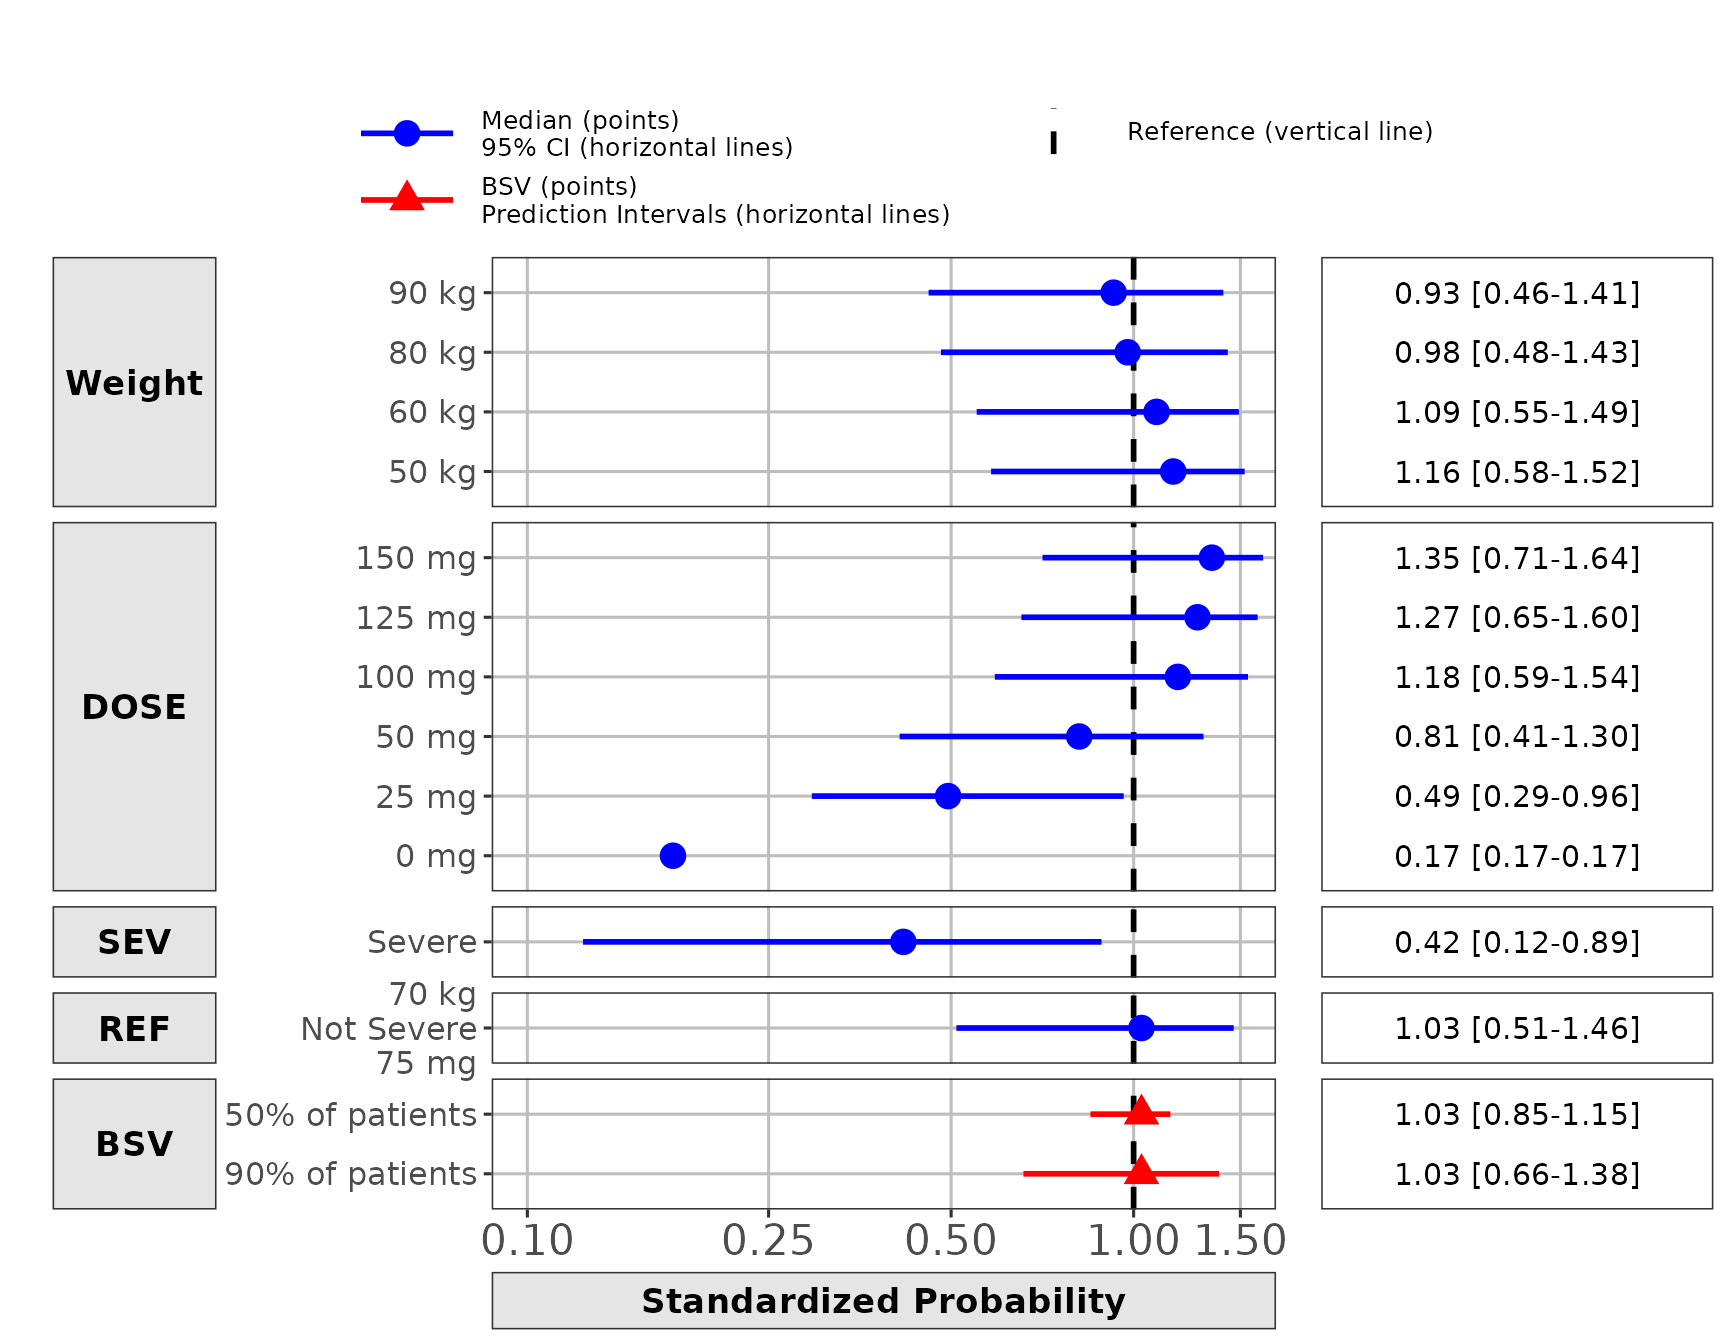
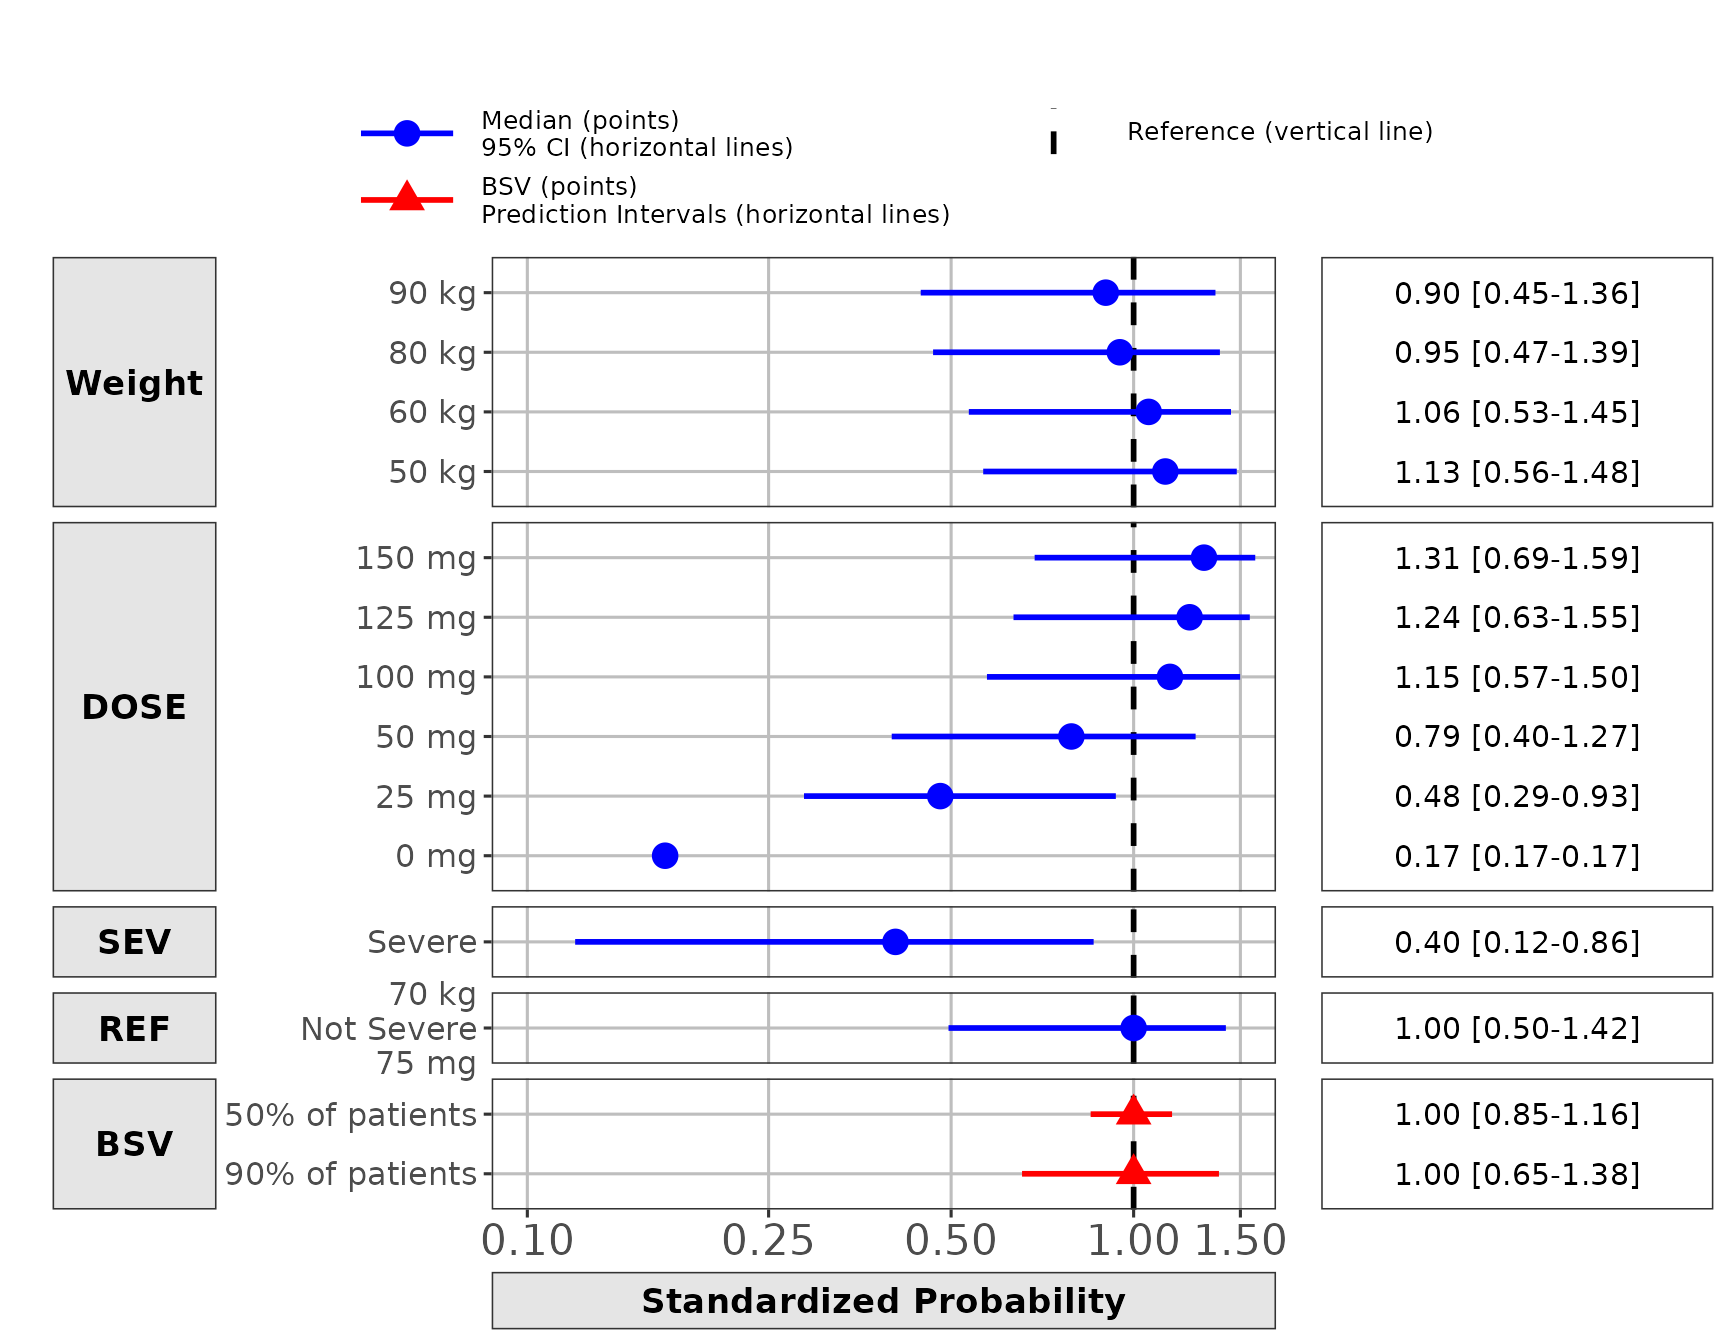
Deploying to gh-pages from @ smouksassi/coveffectsplot@e56d0bf5281c3a1fa69e40cc6d027e754118b908 🚀

diff --git a/articles/Exposure_Response_Example.html b/articles/Exposure_Response_Example.html
@@ -178,9 +178,7 @@ $$</span> The equation of the log(odds) becomes: <span class="math display">$$lo
 <span>  <span class="fu">data_set</span><span class="op">(</span><span class="va">simdata</span><span class="op">)</span> <span class="op"><a href="https://magrittr.tidyverse.org/reference/pipe.html" class="external-link">%&gt;%</a></span></span>
 <span>  <span class="fu">carry.out</span><span class="op">(</span><span class="va">WT</span>, <span class="va">DOSE</span>, <span class="va">SEV</span><span class="op">)</span> <span class="op"><a href="https://magrittr.tidyverse.org/reference/pipe.html" class="external-link">%&gt;%</a></span></span>
 <span>  <span class="fu">mrgsim</span><span class="op">(</span><span class="op">)</span><span class="op"><a href="https://magrittr.tidyverse.org/reference/pipe.html" class="external-link">%&gt;%</a></span></span>
-<span>  <span class="va">as.data.frame</span></span>
-<span></span>
-<span><span class="co">#simout$DV = ifelse(runif(n=nrow(simout),min=0,max=1)&lt; simout$P1,1 , 0)</span></span></code></pre></div>
+<span>  <span class="va">as.data.frame</span></span></code></pre></div>
 </div>
 <div class="section level3">
 <h3 id="visualizing-probability-of-cure">Visualizing Probability of Cure<a class="anchor" aria-label="anchor" href="#visualizing-probability-of-cure"></a>
@@ -221,8 +219,6 @@ Weight of 70 kg and disease severity of “Not Severe”.</p>
 <span>            n1<span class="op">=</span> <span class="fu"><a href="https://rdrr.io/r/base/length.html" class="external-link">length</a></span><span class="op">(</span><span class="va">DV</span><span class="op">[</span><span class="va">DV</span><span class="op">==</span><span class="fl">1</span><span class="op">]</span><span class="op">)</span>,</span>
 <span>            medAUC<span class="op">=</span> <span class="fu"><a href="https://rdrr.io/r/stats/median.html" class="external-link">median</a></span><span class="op">(</span><span class="va">AUC</span><span class="op">)</span><span class="op">)</span></span>
 <span></span>
-<span></span>
-<span></span>
 <span><span class="va">percentineachbreakcategory</span> <span class="op">&lt;-</span> <span class="va">simout</span> <span class="op"><a href="https://magrittr.tidyverse.org/reference/pipe.html" class="external-link">%&gt;%</a></span> </span>
 <span>  <span class="fu"><a href="https://dplyr.tidyverse.org/reference/mutate.html" class="external-link">mutate</a></span><span class="op">(</span>AUC_bins<span class="op">=</span><span class="fu">table1</span><span class="fu">::</span><span class="fu"><a href="https://rdrr.io/pkg/table1/man/eqcut.html" class="external-link">eqcut</a></span><span class="op">(</span><span class="va">AUC</span>,<span class="fl">4</span>,withhold <span class="op">=</span> <span class="fu"><a href="https://rdrr.io/r/base/list.html" class="external-link">list</a></span><span class="op">(</span>PLACEBO<span class="op">=</span><span class="va">AUC</span><span class="op">==</span><span class="fl">0</span><span class="op">)</span><span class="op">)</span><span class="op">)</span> <span class="op"><a href="https://magrittr.tidyverse.org/reference/pipe.html" class="external-link">%&gt;%</a></span> </span>
 <span>  <span class="fu"><a href="https://dplyr.tidyverse.org/reference/group_by.html" class="external-link">group_by</a></span><span class="op">(</span><span class="va">DOSE</span><span class="op">)</span> <span class="op"><a href="https://magrittr.tidyverse.org/reference/pipe.html" class="external-link">%&gt;%</a></span> </span>
@@ -231,8 +227,6 @@ Weight of 70 kg and disease severity of “Not Severe”.</p>
 <span>  <span class="fu"><a href="https://dplyr.tidyverse.org/reference/mutate.html" class="external-link">mutate</a></span><span class="op">(</span>Ncat<span class="op">=</span><span class="fu"><a href="https://dplyr.tidyverse.org/reference/context.html" class="external-link">n</a></span><span class="op">(</span><span class="op">)</span>,xmed<span class="op">=</span><span class="fu"><a href="https://rdrr.io/r/stats/median.html" class="external-link">median</a></span><span class="op">(</span><span class="va">AUC</span><span class="op">)</span><span class="op">)</span><span class="op"><a href="https://magrittr.tidyverse.org/reference/pipe.html" class="external-link">%&gt;%</a></span> </span>
 <span>  <span class="fu"><a href="https://dplyr.tidyverse.org/reference/mutate.html" class="external-link">mutate</a></span><span class="op">(</span>percentage<span class="op">=</span><span class="va">Ncat</span><span class="op">/</span><span class="va">Ntot</span><span class="op">)</span><span class="op"><a href="https://magrittr.tidyverse.org/reference/pipe.html" class="external-link">%&gt;%</a></span> </span>
 <span>  <span class="fu"><a href="https://dplyr.tidyverse.org/reference/distinct.html" class="external-link">distinct</a></span><span class="op">(</span><span class="va">DOSE</span>,<span class="va">xmed</span>,<span class="va">AUC_bins</span>,<span class="va">percentage</span>,<span class="va">WT</span>,<span class="va">SEV</span><span class="op">)</span></span>
-<span></span>
-<span></span>
 <span></span>
 <span><span class="va">probplot</span> <span class="op">&lt;-</span> <span class="fu"><a href="https://ggplot2.tidyverse.org/reference/ggplot.html" class="external-link">ggplot</a></span><span class="op">(</span><span class="va">simout</span>, <span class="fu"><a href="https://ggplot2.tidyverse.org/reference/aes.html" class="external-link">aes</a></span><span class="op">(</span><span class="va">AUC</span>,<span class="va">DV</span>,linetype<span class="op">=</span><span class="fu"><a href="https://rdrr.io/r/base/factor.html" class="external-link">factor</a></span><span class="op">(</span><span class="va">SEV_cat</span><span class="op">)</span><span class="op">)</span><span class="op">)</span> <span class="op">+</span></span>
 <span>  <span class="fu"><a href="https://ggplot2.tidyverse.org/reference/facet_grid.html" class="external-link">facet_grid</a></span><span class="op">(</span> <span class="va">WT</span><span class="op">~</span><span class="va">SEV</span>,labeller<span class="op">=</span><span class="fu"><a href="https://ggplot2.tidyverse.org/reference/labeller.html" class="external-link">labeller</a></span><span class="op">(</span>WT<span class="op">=</span><span class="va">WT_names</span>,SEV<span class="op">=</span><span class="va">SEV_names</span><span class="op">)</span><span class="op">)</span><span class="op">+</span></span>
@@ -314,7 +308,11 @@ the computed bin limits.</p>
 Impact on Probabilities<a class="anchor" aria-label="anchor" href="#adding-between-subject-variability-on-intercept-and-showing-its-impact-on-probabilities"></a>
 </h3>
 <div class="sourceCode" id="cb3"><pre class="downlit sourceCode r">
-<code class="sourceCode R"><span></span>
+<code class="sourceCode R"><span><span class="fu"><a href="https://rdrr.io/r/base/Random.html" class="external-link">set.seed</a></span><span class="op">(</span><span class="fl">466548</span><span class="op">)</span></span>
+<span><span class="va">simdata</span> <span class="op">&lt;-</span>  <span class="fu">expand.idata</span><span class="op">(</span>SEV<span class="op">=</span><span class="fu"><a href="https://rdrr.io/r/base/c.html" class="external-link">c</a></span><span class="op">(</span><span class="fl">0</span><span class="op">)</span>,</span>
+<span>               DOSE <span class="op">=</span> <span class="fu"><a href="https://rdrr.io/r/base/c.html" class="external-link">c</a></span><span class="op">(</span><span class="fl">0</span>,<span class="fl">75</span><span class="op">)</span>,</span>
+<span>               ID <span class="op">=</span> <span class="fl">1</span><span class="op">:</span><span class="fl">10000</span><span class="op">)</span> <span class="op"><a href="https://magrittr.tidyverse.org/reference/pipe.html" class="external-link">%&gt;%</a></span> </span>
+<span>  <span class="fu">dplyr</span><span class="fu">::</span><span class="fu"><a href="https://dplyr.tidyverse.org/reference/mutate.html" class="external-link">mutate</a></span><span class="op">(</span>WT <span class="op">=</span> <span class="fl">70</span><span class="op">)</span> <span class="co">#exp(rnorm(n(),log(70),0.3)</span></span>
 <span><span class="va">simout</span> <span class="op">&lt;-</span> <span class="va">modexprespsim</span> <span class="op"><a href="https://magrittr.tidyverse.org/reference/pipe.html" class="external-link">%&gt;%</a></span></span>
 <span>  <span class="fu">data_set</span><span class="op">(</span><span class="va">simdata</span><span class="op">)</span> <span class="op"><a href="https://magrittr.tidyverse.org/reference/pipe.html" class="external-link">%&gt;%</a></span></span>
 <span>  <span class="fu">carry.out</span><span class="op">(</span><span class="va">WT</span>, <span class="va">DOSE</span>, <span class="va">SEV</span><span class="op">)</span> <span class="op"><a href="https://magrittr.tidyverse.org/reference/pipe.html" class="external-link">%&gt;%</a></span></span>
@@ -377,10 +375,10 @@ Impact on Probabilities<a class="anchor" aria-label="anchor" href="#adding-betwe
 <span>    P95 <span class="op">=</span> <span class="fu"><a href="https://rdrr.io/r/stats/quantile.html" class="external-link">quantile</a></span><span class="op">(</span><span class="va">paramvalue</span>, <span class="fl">0.95</span><span class="op">)</span><span class="op">)</span></span>
 <span><span class="va">simoutbsvranges</span></span>
 <span><span class="co">#&gt; <span style="color: #949494;"># A tibble: 2 × 6</span></span></span>
-<span><span class="co">#&gt;   paramname    P05   P25   P50   P75   P95</span></span>
-<span><span class="co">#&gt;   <span style="color: #949494; font-style: italic;">&lt;chr&gt;</span>      <span style="color: #949494; font-style: italic;">&lt;dbl&gt;</span> <span style="color: #949494; font-style: italic;">&lt;dbl&gt;</span> <span style="color: #949494; font-style: italic;">&lt;dbl&gt;</span> <span style="color: #949494; font-style: italic;">&lt;dbl&gt;</span> <span style="color: #949494; font-style: italic;">&lt;dbl&gt;</span></span></span>
-<span><span class="co">#&gt; <span style="color: #BCBCBC;">1</span> P1        0.075<span style="text-decoration: underline;">4</span> 0.101 0.187 0.575 0.733</span></span>
-<span><span class="co">#&gt; <span style="color: #BCBCBC;">2</span> P1std     0.658  0.849 1     1.15  1.38</span></span>
+<span><span class="co">#&gt;   paramname    P05    P25   P50   P75   P95</span></span>
+<span><span class="co">#&gt;   <span style="color: #949494; font-style: italic;">&lt;chr&gt;</span>      <span style="color: #949494; font-style: italic;">&lt;dbl&gt;</span>  <span style="color: #949494; font-style: italic;">&lt;dbl&gt;</span> <span style="color: #949494; font-style: italic;">&lt;dbl&gt;</span> <span style="color: #949494; font-style: italic;">&lt;dbl&gt;</span> <span style="color: #949494; font-style: italic;">&lt;dbl&gt;</span></span></span>
+<span><span class="co">#&gt; <span style="color: #BCBCBC;">1</span> P1        0.075<span style="text-decoration: underline;">4</span> 0.099<span style="text-decoration: underline;">7</span> 0.209 0.576 0.732</span></span>
+<span><span class="co">#&gt; <span style="color: #BCBCBC;">2</span> P1std     0.655  0.849  1     1.16  1.38</span></span>
 <span><span class="va">pbsvranges</span></span></code></pre></div>
 <p><img src="Exposure_Response_Example_files/figure-html/bsvrangeplot-1.png" width="672">
 The table and associated plot illustrated the impact of between subject
@@ -473,7 +471,12 @@ The above figure show the raw simulated probabilities split by covariate
 values. In the next section we show how we can standardize and summarize
 the probabilities.</p>
 <div class="sourceCode" id="cb6"><pre class="downlit sourceCode r">
-<code class="sourceCode R"><span><span class="va">iter_sims</span> <span class="op">&lt;-</span> <span class="va">iter_sims</span> <span class="op"><a href="https://magrittr.tidyverse.org/reference/pipe.html" class="external-link">%&gt;%</a></span></span>
+<code class="sourceCode R"><span><span class="va">TypicalProb</span> <span class="op">&lt;-</span> <span class="va">iter_sims</span> <span class="op"><a href="https://magrittr.tidyverse.org/reference/pipe.html" class="external-link">%&gt;%</a></span></span>
+<span>  <span class="fu"><a href="https://dplyr.tidyverse.org/reference/filter.html" class="external-link">filter</a></span><span class="op">(</span><span class="va">ID</span><span class="op">==</span><span class="fl">3</span><span class="op">)</span> <span class="op"><a href="https://magrittr.tidyverse.org/reference/pipe.html" class="external-link">%&gt;%</a></span> </span>
+<span>  <span class="fu"><a href="https://dplyr.tidyverse.org/reference/summarise.html" class="external-link">summarize</a></span><span class="op">(</span>medP1<span class="op">=</span><span class="fu"><a href="https://rdrr.io/r/stats/median.html" class="external-link">median</a></span><span class="op">(</span><span class="va">P1</span><span class="op">)</span><span class="op">)</span> <span class="op"><a href="https://magrittr.tidyverse.org/reference/pipe.html" class="external-link">%&gt;%</a></span> </span>
+<span>  <span class="fu"><a href="https://dplyr.tidyverse.org/reference/pull.html" class="external-link">pull</a></span><span class="op">(</span><span class="va">medP1</span><span class="op">)</span></span>
+<span></span>
+<span><span class="va">iter_sims</span> <span class="op">&lt;-</span> <span class="va">iter_sims</span> <span class="op"><a href="https://magrittr.tidyverse.org/reference/pipe.html" class="external-link">%&gt;%</a></span></span>
 <span>  <span class="fu"><a href="https://dplyr.tidyverse.org/reference/mutate.html" class="external-link">mutate</a></span><span class="op">(</span>P1std<span class="op">=</span><span class="va">P1</span><span class="op">/</span><span class="va">TypicalProb</span><span class="op">)</span><span class="op"><a href="https://magrittr.tidyverse.org/reference/pipe.html" class="external-link">%&gt;%</a></span></span>
 <span>  <span class="fu">gather</span><span class="op">(</span><span class="va">paramname</span>,<span class="va">paramvalue</span>,<span class="va">P1std</span><span class="op">)</span><span class="op"><a href="https://magrittr.tidyverse.org/reference/pipe.html" class="external-link">%&gt;%</a></span> </span>
 <span>  <span class="fu"><a href="https://dplyr.tidyverse.org/reference/group_by.html" class="external-link">ungroup</a></span><span class="op">(</span><span class="op">)</span> <span class="op"><a href="https://magrittr.tidyverse.org/reference/pipe.html" class="external-link">%&gt;%</a></span> </span>
@@ -572,10 +575,9 @@ present it using a forest plot.</p>
 <span>              <span class="st">"0 mg"</span>,<span class="st">"25 mg"</span>,<span class="st">"50 mg"</span>,<span class="st">"100 mg"</span>,<span class="st">"125 mg"</span>,<span class="st">"150 mg"</span>,</span>
 <span>              <span class="st">"Severe"</span>,<span class="st">"70 kg\nNot Severe\n75 mg"</span></span>
 <span>              <span class="op">)</span><span class="op">)</span></span>
-<span>    </span>
-<span></span>
 <span><span class="va">coveffectsdatacovrepbsv</span><span class="op">$</span><span class="va">covname</span> <span class="op">&lt;-</span><span class="fu"><a href="https://rdrr.io/r/base/factor.html" class="external-link">factor</a></span><span class="op">(</span><span class="fu"><a href="https://rdrr.io/r/base/factor.html" class="external-link">as.factor</a></span><span class="op">(</span><span class="va">coveffectsdatacovrepbsv</span><span class="op">$</span><span class="va">covname</span> <span class="op">)</span>,</span>
 <span>                    levels <span class="op">=</span> <span class="fu"><a href="https://rdrr.io/r/base/c.html" class="external-link">c</a></span><span class="op">(</span><span class="st">"Weight"</span>,<span class="st">"DOSE"</span>,<span class="st">"SEV"</span>,<span class="st">"REF"</span>,<span class="st">"BSV"</span><span class="op">)</span><span class="op">)</span></span>
+<span></span>
 <span></span>
 <span><span class="va">ref_legend_text</span>      <span class="op">&lt;-</span> <span class="st">"Reference (vertical line)"</span></span>
 <span><span class="co">#png("./Figure_8_4.png",width =9 ,height = 7,units = "in",res=72)</span></span>
